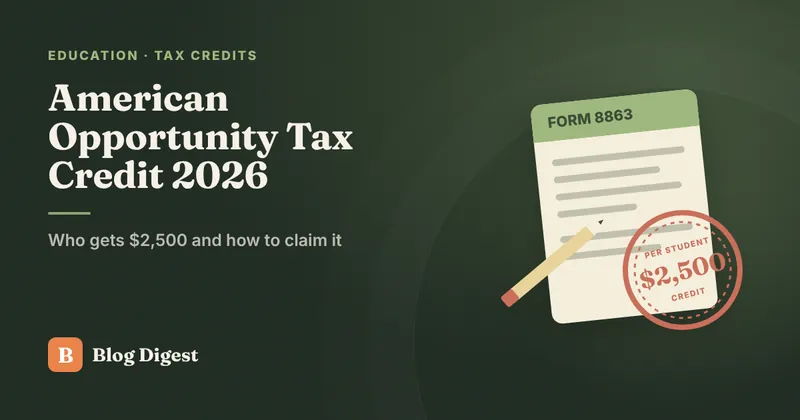
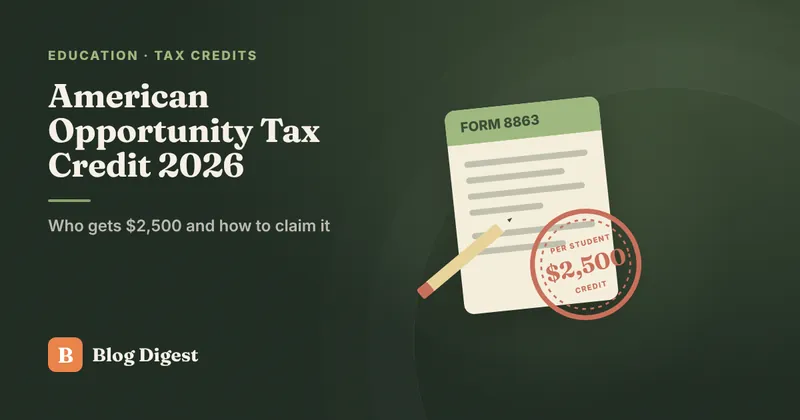
Move November US covers under seo/covers/us and keep the illustration inside the card crop
Claude-Session: https://claude.ai/code/session_01XZCtv1dEFJEDsanPrQZehj

Changed region(s): [[0.5, 0.2167, 0.9375, 0.8048], [0.0625, 0.1857, 0.4375, 0.5881]]

diff --git a/seo/covers/us/make_covers_us.py b/seo/covers/us/make_covers_us.py
@@ -2,7 +2,7 @@
 
 Each cover: a muted two-tone background with soft texture, a topic illustration on the right, the title in Fraunces,
 and the Blog Digest badge. Rendered with Playwright/Chromium, saved as <slug>.jpg, <slug>-1200.webp and <slug>-800.webp.
-Usage: python3 seo/covers-us/make_covers_us.py <font-dir>   (font dir holds fraunces-600/700 and inter-600/800 .woff2)
+Usage: python3 seo/covers/us/make_covers_us.py <font-dir>   (font dir holds fraunces-600/700 and inter-600/800 .woff2)
 """
 import json, os, subprocess, sys
 from PIL import Image
@@ -173,15 +173,15 @@ PAGE = """<!doctype html><html><head><meta charset="utf-8"><style>
 body{width:1200px;height:630px;overflow:hidden;position:relative;
  background:radial-gradient(1100px 700px at 85% 15%,BG2 0%,BG1 70%);font-family:Inter}
 .grain{position:absolute;inset:0;opacity:.16;mix-blend-mode:overlay}
-.glow{position:absolute;right:-120px;top:40px;width:620px;height:620px;border-radius:50%;
+.glow{position:absolute;left:520px;top:40px;width:620px;height:620px;border-radius:50%;
  background:radial-gradient(circle,ACC 0%,transparent 62%);opacity:.16}
 .rings{position:absolute;right:-180px;bottom:-260px;width:760px;height:760px;border-radius:50%;
  border:1.5px solid rgba(255,255,255,.08);box-shadow:0 0 0 70px rgba(255,255,255,.015),0 0 0 140px rgba(255,255,255,.012)}
-.art{position:absolute;right:56px;top:105px;width:420px;height:420px;filter:drop-shadow(0 18px 30px rgba(0,0,0,.28))}
-.txt{position:absolute;left:72px;top:72px;width:620px;height:486px;display:flex;flex-direction:column}
+.art{position:absolute;left:600px;top:118px;width:390px;height:390px;filter:drop-shadow(0 18px 30px rgba(0,0,0,.28))}
+.txt{position:absolute;left:72px;top:72px;width:520px;height:486px;display:flex;flex-direction:column}
 .k{font-weight:800;font-size:19px;letter-spacing:2.6px;text-transform:uppercase;color:ACC}
 .t{font-family:Fraunces;font-weight:700;font-size:TSpx;line-height:1.04;color:#f6f0e6;margin-top:22px;letter-spacing:-.5px}
-.s{font-weight:600;font-size:25px;line-height:1.35;color:rgba(246,240,230,.72);margin-top:22px;max-width:560px}
+.s{font-weight:600;font-size:24px;line-height:1.35;color:rgba(246,240,230,.72);margin-top:20px;max-width:500px}
 .b{margin-top:auto;display:flex;align-items:center;gap:14px}
 .bl{width:52px;height:52px;border-radius:12px;background:#e9844a;display:grid;place-items:center;
  font-family:Fraunces;font-weight:700;font-size:32px;color:#fff}
@@ -207,7 +207,7 @@ NODE = """const { chromium } = require('playwright');
 def main():
     jobs = []
     for slug, (kick, title, sub, bg1, bg2, acc, art) in COVERS.items():
-        ts = 64 if len(title) <= 30 else 56
+        ts = 60 if len(title) <= 30 else 50
         html = (PAGE.replace("FD/", "file://" + FONTS + "/").replace("BG1", bg1).replace("BG2", bg2)
                 .replace("ACC", acc).replace("TS", str(ts)).replace("KICK", kick).replace("TITLE", title)
                 .replace("SUB", sub).replace("ART", art.replace("BG2", bg2).replace("ACC", acc)))
